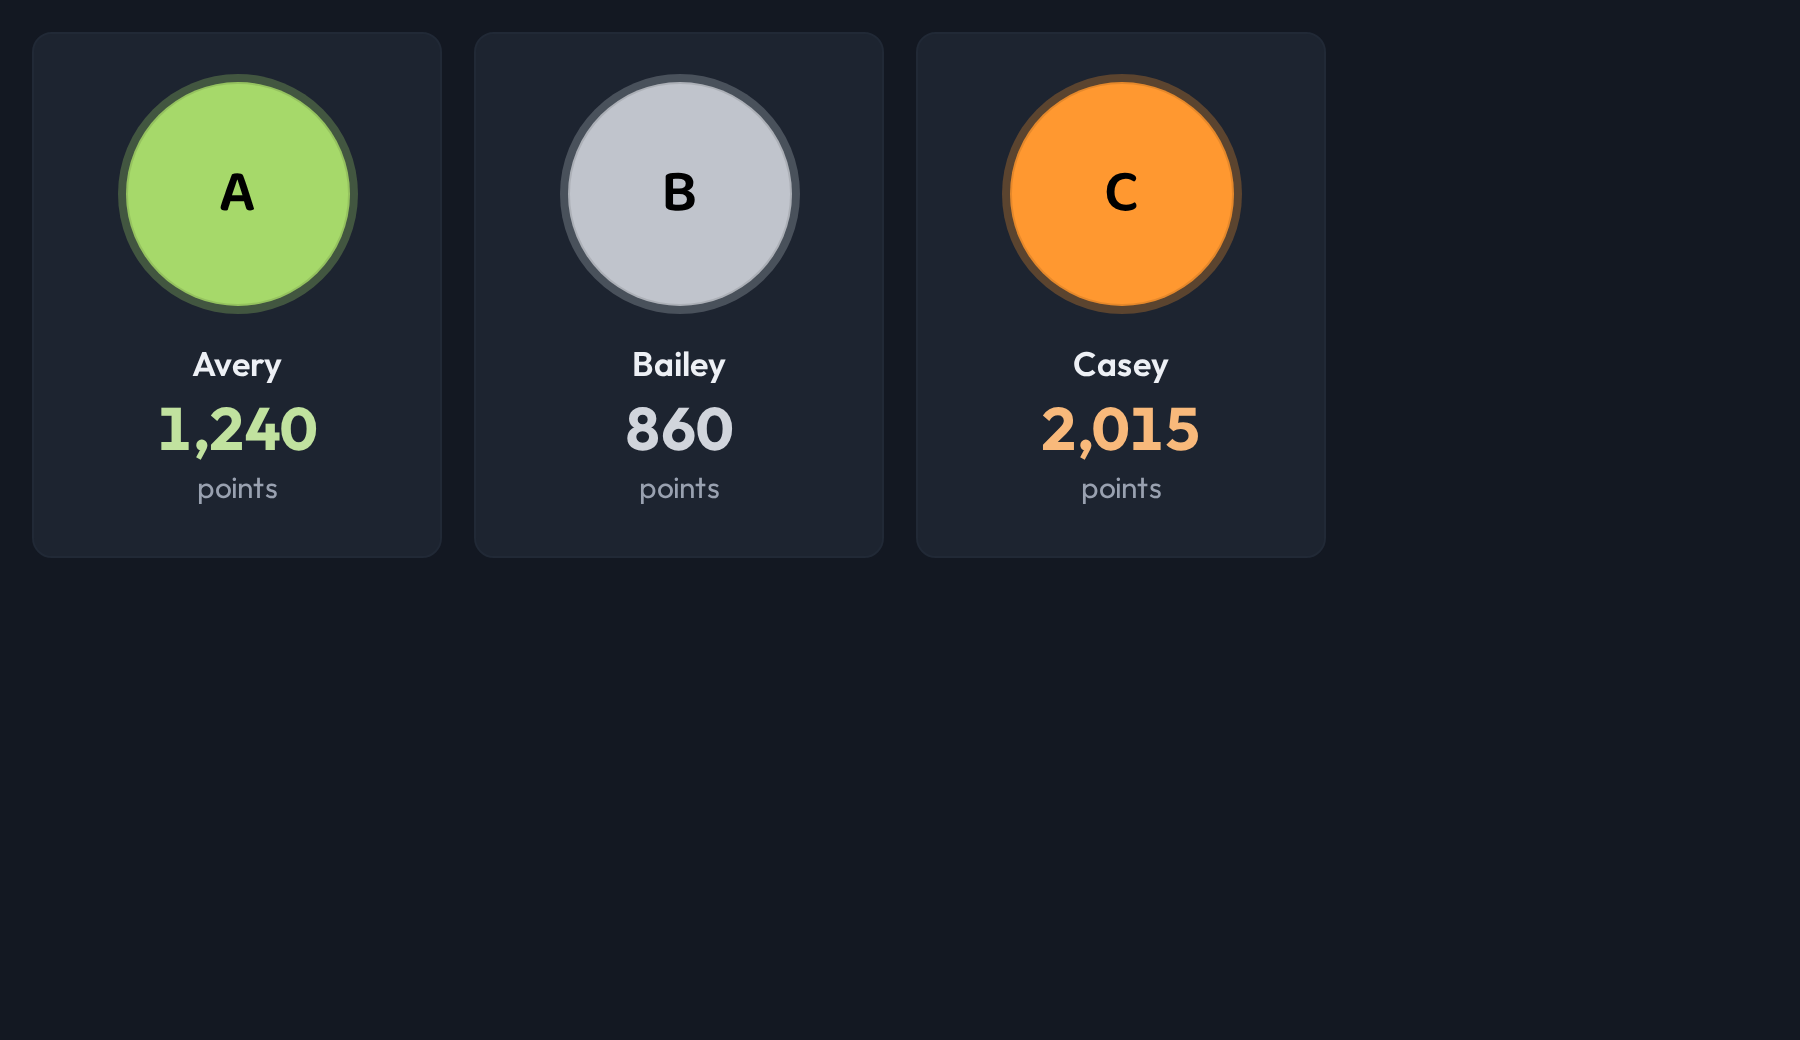
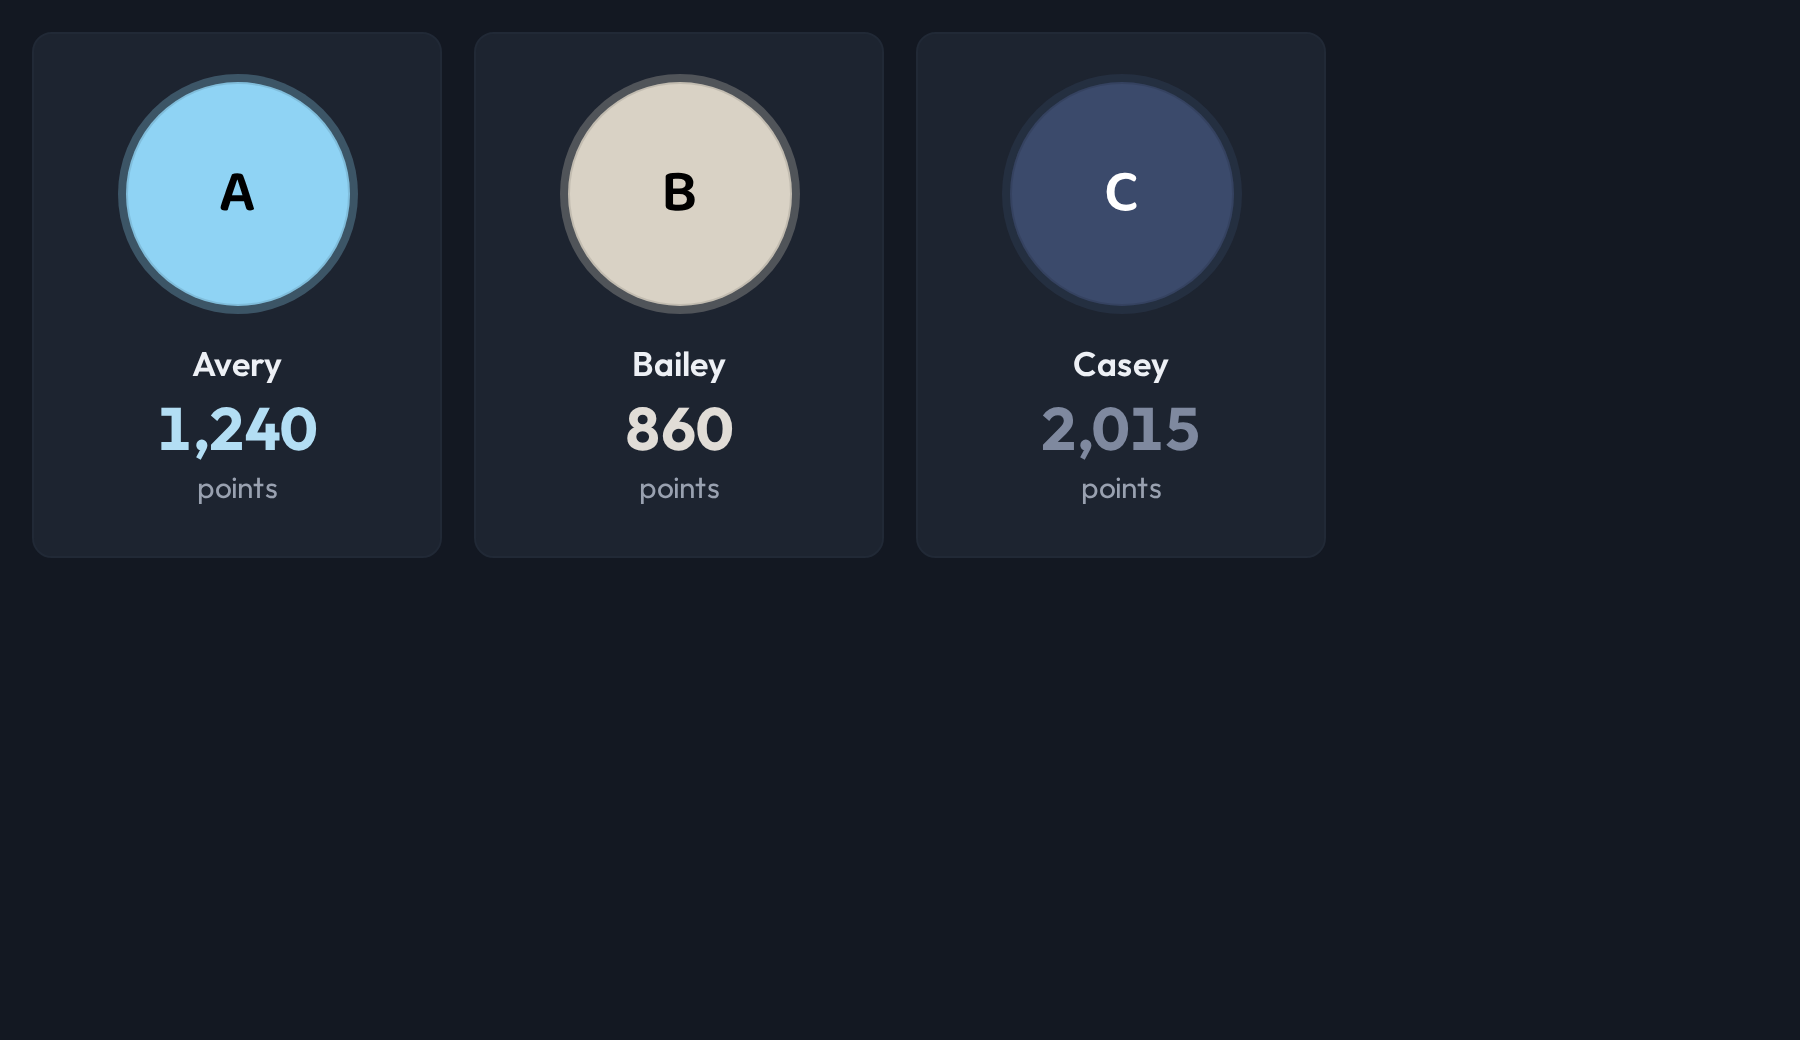
fix(ui): make the data-colour fixtures fixtures
The three hexes in `DataColours` were points-market's actual seed
values, and the commit that added the preview images said they were
not. Correcting the code rather than the sentence: an app's real
configuration sitting in a published library is a fixture nobody can
change afterwards, and the tokens test carried a comment tying those
values to household hardware.

Invented colours now, and better ones for the job — two pale and one
dark, so the story SHOWS the initials flipping to suit the fill
instead of describing it. `getReadableTextColour` gains the dark
case in its own test.

diff --git a/packages/ui/src/PortraitTiles/PortraitTiles.stories.tsx b/packages/ui/src/PortraitTiles/PortraitTiles.stories.tsx
@@ -93,10 +93,16 @@ const PINNED_ITEMS: PortraitTileItem[] = [
  * Hex on purpose — the contrast pick that decides whether the
  * initials come out black or white reads six-digit hex and nothing
  * else.
+ *
+ * Invented colours, like the names above them. An app's real values
+ * would be its data sitting in a published library, and a fixture
+ * that is somebody's actual configuration is a fixture nobody can
+ * change later. Two pale and one dark, so the story shows the
+ * initials flipping rather than describing it.
  */
 const CARD_COLOUR_ITEMS: PortraitTileItem[] = [
   {
-    color: "#A6D96A",
+    color: "#8FD3F4",
     hint: "points",
     initials: "A",
     label: "Avery",
@@ -104,7 +110,7 @@ const CARD_COLOUR_ITEMS: PortraitTileItem[] = [
     value: "avery",
   },
   {
-    color: "#C0C4CC",
+    color: "#D9D2C5",
     hint: "points",
     initials: "B",
     label: "Bailey",
@@ -112,7 +118,7 @@ const CARD_COLOUR_ITEMS: PortraitTileItem[] = [
     value: "bailey",
   },
   {
-    color: "#FF9830",
+    color: "#3B4A6B",
     hint: "points",
     initials: "C",
     label: "Casey",
@@ -309,12 +315,13 @@ export const NamedHues: Story = {
 /**
  * A colour out of data rather than out of the palette.
  *
- * All three of these are pale, which is the case the arm has to
- * survive: the initials flip to black where white would vanish, and
- * the number is the same hue pulled toward the scheme's own text
- * colour so it stays readable on a pale surface — and, in the dark
- * scheme, pulled the other way. Compare it with `NamedHues` above,
- * where the library owns the colour and can simply state both ends.
+ * Two pale fills and one dark one, which is the case the arm has to
+ * survive: the initials go black where white would vanish and white
+ * where black would, and the number is the same hue pulled toward
+ * the scheme's own text colour so it stays readable on a pale
+ * surface — and, in the dark scheme, pulled the other way. Compare
+ * it with `NamedHues` above, where the library owns the colour and
+ * can simply state both ends.
  *
  * Use this arm only when the colour is a **fact about the subject**.
  * A colour that is merely a design choice is a `categorical` index,

diff --git a/packages/ui/src/PortraitTiles/PortraitTiles.test.tsx b/packages/ui/src/PortraitTiles/PortraitTiles.test.tsx
@@ -261,18 +261,21 @@ test("a data colour reaches the fill exactly, and the initials flip to suit it",
       (face) => getComputedStyle(face).backgroundColor,
     ),
   ).toEqual([
-    "rgb(166, 217, 106)",
-    "rgb(192, 196, 204)",
-    "rgb(255, 152, 48)",
+    "rgb(143, 211, 244)",
+    "rgb(217, 210, 197)",
+    "rgb(59, 74, 107)",
   ])
 
-  // All three fills are pale, so white letters would disappear into
-  // them. Nothing in the toolchain would have said so.
-  for (const face of faces) {
-    await expect(getComputedStyle(face).color).toBe(
-      "rgb(0, 0, 0)",
-    )
-  }
+  // The first two fills are pale and the third is dark, so the
+  // letters have to go the other way on the third. Nothing in the
+  // toolchain would have said otherwise.
+  await expect(
+    faces.map((face) => getComputedStyle(face).color),
+  ).toEqual([
+    "rgb(0, 0, 0)",
+    "rgb(0, 0, 0)",
+    "rgb(255, 255, 255)",
+  ])
 
   await expectNoAxeViolations(canvasElement)
 })
@@ -303,7 +306,7 @@ test("the number is the data colour pulled toward readable, not the raw colour",
     stat as HTMLElement,
   ).color
 
-  await expect(statColour).not.toBe("rgb(192, 196, 204)")
+  await expect(statColour).not.toBe("rgb(217, 210, 197)")
 
   await expect(statColour).not.toBe("rgba(0, 0, 0, 0)")
 })

diff --git a/packages/tokens/src/contrast.test.ts b/packages/tokens/src/contrast.test.ts
@@ -313,13 +313,13 @@ test("APCA magnitude tracks readability on the winning variant", () => {
  * than a build failure somebody sees.
  */
 test("it picks black or white for a fill, whichever that fill can carry", () => {
-  // points-market's kid colours, straight off the NFC cards. All
-  // three are pale, so white letters would vanish into them and
-  // nothing in a build would have said so.
-  expect(getReadableTextColour("#A6D96A")).toBe("#000000")
-  expect(getReadableTextColour("#C0C4CC")).toBe("#000000")
-  expect(getReadableTextColour("#FF9830")).toBe("#000000")
+  // Pale fills, where white letters would vanish and nothing in a
+  // build would have said so.
+  expect(getReadableTextColour("#8FD3F4")).toBe("#000000")
+  expect(getReadableTextColour("#D9D2C5")).toBe("#000000")
+  expect(getReadableTextColour("#FFFFFF")).toBe("#000000")
 
+  expect(getReadableTextColour("#3B4A6B")).toBe("#FFFFFF")
   expect(getReadableTextColour("#1A1C1F")).toBe("#FFFFFF")
   expect(getReadableTextColour("#2F6F4E")).toBe("#FFFFFF")
 

diff --git a/packages/ui/src/PortraitTiles/portraitColour.test.ts b/packages/ui/src/PortraitTiles/portraitColour.test.ts
@@ -16,10 +16,10 @@ import {
  * that failed to load.
  */
 test("one colour becomes the four properties the paint reads", () => {
-  const properties = getPortraitColourProperties("#A6D96A")
+  const properties = getPortraitColourProperties("#8FD3F4")
 
   expect(properties[PORTRAIT_COLOUR_PROPERTY]).toBe(
-    "#A6D96A",
+    "#8FD3F4",
   )
 
   // Pale fill, so the letters go dark. `getReadableTextColour` owns
@@ -32,10 +32,10 @@ test("one colour becomes the four properties the paint reads", () => {
   // the number pulled toward the scheme's own text colour so it
   // moves with the scheme instead of staying pale on a pale surface.
   expect(properties[PORTRAIT_HALO_PROPERTY]).toBe(
-    "color-mix(in srgb, #A6D96A 28%, transparent)",
+    "color-mix(in srgb, #8FD3F4 28%, transparent)",
   )
 
   expect(properties[PORTRAIT_STAT_PROPERTY]).toBe(
-    "color-mix(in srgb, #A6D96A 62%, var(--color-content-primary))",
+    "color-mix(in srgb, #8FD3F4 62%, var(--color-content-primary))",
   )
 })
